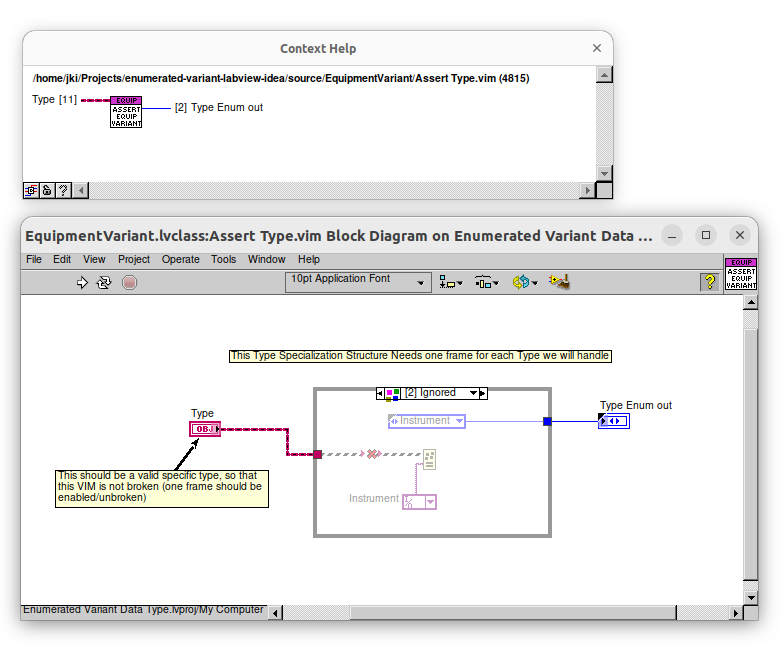
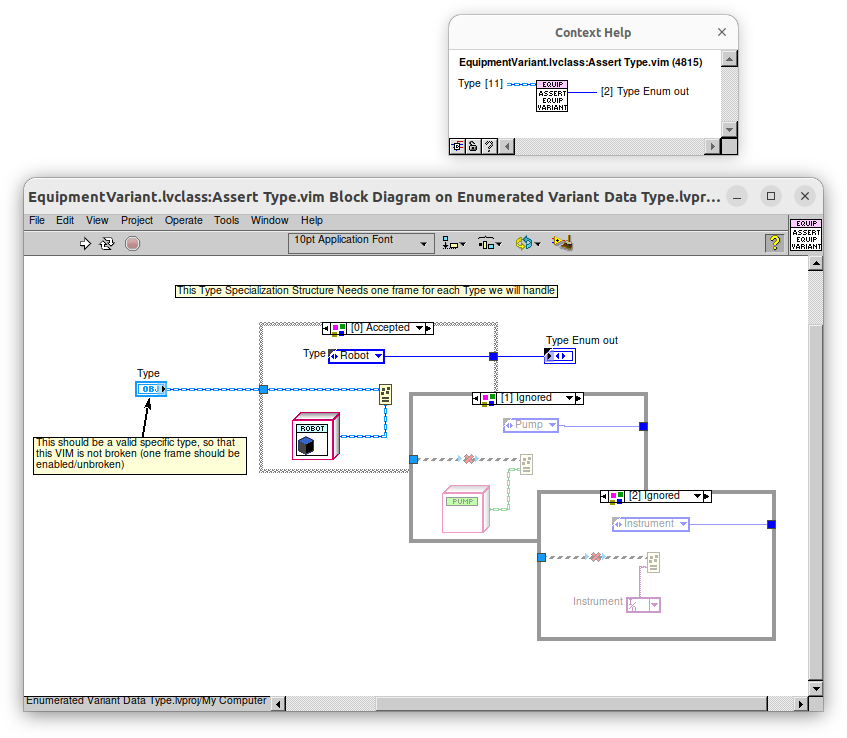
more doc improvements

Changed region(s): [[0.0, 0.031, 0.9821, 0.9907], [0.0614, 0.7121, 0.3683, 0.805], [0.2148, 0.1548, 0.3376, 0.1858]]

diff --git a/README.md b/README.md
@@ -45,68 +45,101 @@ Simply put, the dynamic dispatch approach requires more boilerplate code and is 
 
 As mentioned above, the power of (1) combining an Enum with a set of data types for each value and adding native support for (2) coercion and (3) Case Structure type assertion and data conversion would allow us to create a more robust and type-safe LabVIEW code that is easier to maintain and understand (especially in situations where we do not gain much benefit from the expense of building an maintaining a plug-in architecture).
 
-# Proof of Concept: Combining LabVIEW Enums with Data Types
+# Proof of Concept: Cluster of Enum and Variant
 
-In LabVIEW today, we can get close to such a feature by bundling an enum and a variant into a cluster or (as this example explores more deeply) an "object" (lvclass private data).
+In LabVIEW today, we can get close to such a feature by bundling an enum and each sub-type "variant" into a cluster. Notice how even though these clusters are different types, will all coerce to a cluster of Enum and Variant. 
 
-This example has a class called `EnumeratedVariant.lvclass` which is a base class whose private data contains two Variants: one for the Type Enum and one for the specific Data.
+![Coercion to Cluster of Enum and Variant](docs/coercion_to_cluster_of_enum_and_variant.png)
+
+This allows us to do things like build arrays of these clusters and iterate over them in a For Loop.  We can then unbundle the Enum to get the type and then unbundle the Variant and convert it to the correct type of data at runtime.
+
+![Iterate over Items](docs/example_cluster_for_loop.png)
+
+This is nice, but it could be even better.  Right now ANYTHING can be put into the Variant, and we have to do a runtime check to see if the data is of the correct type.  And, one can accidentally associate the enum value with the wrong data type when an instance is created.
+
+So, what we need is some template code that will allow us to associate a specific data type with each item in an Enum in a way that doesn't require duplicate code and can be checked at compile time rather than runtime.  Let's see how close we can get.
+
+We'll use Malleable VIs and a LabVIEW classes to achieve this.  It won't get us all the way to native support, but it will get us to something that's easy to use and maintain.
+
+# Proof of Concept: Malleable VIs and LabVIEW Classes
+
+## EnumeratedVariant.lvclass (Base Class for Boilerplate Code)
+
+In this approach, we're going to start out by creating a general-purpose base class called `EnumeratedVariant.lvclass`.  We can see its private data contains two Variants: one for the Type Enum and one for the specific Data.
 
 ![Enumerated Variant Private Data](docs/enumerated_variant_private_data.png)
 
-We will also create some Malleable VIs (VIMs) for type assertion and data type conversion (for converting specific variants into our enumerated variant and back) as well as some property accessort functions.
+> Note that we could have created a very specific class with the actual Enum for Equipment types, but we're going to keep it general for now so we can reuse this class for other types of Enumerated Variants.
 
-Ideally, we would be able to avoid any boilerplate in our child classes (specific types of Enumerated Variants) and have all the type checking and data conversion handled by the base class.  However, due to limitations in LabVIEW's class and interface system in conjuction with Malleable VIs (VIMs), we will need to have some boilerplate code in our child classes.
+`EnumeratedVariant.lvclass` has the following features:
 
-## Example: EquipmentVariant.lvclass
+- Property Accessor methods for the Enum and Data Variants
+- A constructor for initializing the Enum and Data Variants.
+- Malleable VIs for converting to the specific Type Enum and Specific Data.
 
-Let's look at an example called `EquipmentVariant.lvclass`, which inherits from `EnumeratedVariant.lvclass`).  It has an Enum that defines the names of types that are considered `EquipmentVariants`. It also has some boilerplate code (that we alluded to), which are parts that could not be put into the base class.
+These were boilerplate code, so we put them in the base class to avoid having to recreate them for each specific type of Enumerated Variant we might create in our application.
 
-### High Level Diagram
+## EquipmentVariant.lvclass (our specific example)
 
-Below is an example of converting a VISA session into a specific Enumerated Variant Data Type called `EquipmentVariant`.  We see that there is also code converting directly to Variant and then back to a VISA Reference using `Variant to Data`.
+Now, let's look at `EquipmentVariant.lvclass`.
 
-![Enumerated Variant Data Type](docs/to_and_from_enumerated_variant.png)
+- It inherits from `EnumeratedVariant.lvclass`)
+- It has an Enum type definition that defines the names of types that are considered `EquipmentVariants`.
+- It has ab `Assert Type` Malleable VI that can be used for asserting (at edit time) whether a specific data type is a valid `EquipmentVariant` subtype.
 
-As mentioned earlier, EquipmentVariant.lvclass has an Enum that defines the names of types that are considered EquipmentVariants.  This is used to enforce the types of data that can be considered EquipmentVariants: `Robot`, `Pump`, and `Instrument`.
+![equipment_variant_lvclass](docs/equipment_variant_lvclass.png)
 
-![Equipment Variant Enum](docs/equipment_variant_enum.png)
+We can see that `EquipmentVariant.lvclass` does not have any private data -- it doesn't need it, because the base class will store both Enum and Data values.
 
-Before we dive into the nuts and bolts, let's look at a high level example of how one might use this in an application.
+We can see how these methods are used in the block diagram of this example, showing how we can create an array of different Equipment Variants and iterate over them in a For Loop, handling each type of Equipment Variant in a different frame of the Case Structure.
 
-## Higher-Level Example (Class vs Cluster approach)
+![docs/equipment_variant_for_loop_case_structure.png](docs/equipment_variant_for_loop_case_structure.png)
 
-Here is a high level example block diagram showing how we can use the `EquipmentVariant.lvclass` to handle a few different types.  Note that we also have shown, along-side a class-based approach, how one might simply use clusters to achieve the same thing (but without static type checking) -- hopefully this shows conceptually what is happening under the hood. All the extra work the class-based approach (and VIMs) is doing is to ensure that the data is of the correct type at compile time.
+Unlike our feature proposal where a Case Structure's Case Select terminal/tunnels could automatically coerce to the specific data type inside of the frame for each specific type, we have to do this type conversion manually in the code.
 
-![High Level Example](docs/example_equipment_variant.png)
+### Error Handling and Type Safety
 
-## Enforcing Types with VIMs and Type Assertions
+In our implementation with classes and malleable VIs, we will need tocheck for type errors, since we cannot guarantee the code will convert to the correct, more-specific subtype in the associated Case Structure frame for handling that type.
 
-Behind the scenes `EquipmentVariant.lvclass` has a Malleable VI that asserts the types of data that can be considered EquipmentVariants.  It has a frame for each type we want to include in set of EquipmentVariants. Below we can see this VI and the frame for the `Instrument` type (which is a `VISA Resource`).s
+> Note: if the Case Structure could convert the data automatically (based on wiring the actual Enumerated Variant into the Case Selector terminal), we would have type safety (through edit time static type checking) and avoid that problem altogether. That's part of our feature proposal for native support of this new Enerated Variant type.
 
-![Assert Type](docs/equipment_variant_assert_type_vim.png)
+![docs/equipment_variant_error_handling.png](docs/equipment_variant_error_handling.png)
 
-## Converting from specific types to EquipmentVariant and back
+## Type Checking using Malleable VIs
 
-When we want to convert a `VISA Resource` data type into an `EquipmentVariant` type, we can use the `To Enumerated Variant` VIM.  This VI will check the type of the data and convert it into an EquipmentVariant.  Note that this is asserting the type is an EquipmentVariant by calling Assert Type.  If the type is not an EquipmentVariant, this VI will be broken and will not compile.
+Even though we may still have some runtime errors we need to handle, we can get some static type checking using a Malleable VI that asserts a type is one of the possible types for an `EquipmentVariant`.  We will name this VIM `Assert Type.vim` and is used in both `To Enumerated Variant.vim` and `To Specific Variant.vim`.
 
-![To Enumerated Variant](docs/equipment_variant_to_enumerated_variant.png)
+We can see how this VIM is called in the block diagram of `To Enumerated Variant.vim` and `To Specific Variant.vim` below:
 
-When we want to convert an `EquipmentVariant` back into a VISA Resource, we can use the `To Specific Variant` VIM.
+![Calling Assert Type](docs/equipment_variant_call_assert_type.png)
 
-![To Specific Variant](docs/to_specific_variant.png)
+## Assert Type.vim - Malleable VI that Maps Enum to Data Type
 
-If we look at the block diagram, we will see it is calling the Type Assertion VIM and also calling the base class's `To Specific Variant` VIM.  This is boilerplate code that we need to include in each child class, since there is no way to override a Malleable VI in LabVIEW (which, if such a feature existed, might allow the base class to call our type assertion VI at edit time and avoid the need for this boilerplate).
+Looking under the hood of `EquipmentVariant.lvclass:Assert Type.vim` we see that it has a Type Specialization Structure with a frame that asserts each possible type and outputs the associated Enum value.  **This is the only location in our code that defines this association**, so it is easy to maintain and understand.
 
-![To Specific Variant](docs/equipment_variant_to_specific_variant.png)
+![docs/equipment_variant_assert_type_vim.png](docs/equipment_variant_assert_type_vim.png)
 
-## EnumeratedVariant Base Class
+Let's say that again...
 
-The VIs and Malleable VIs in the base class are used to provide convenience functions for accessing the Variant Data and converting it to specific types using the `Variant to Data`.  Because they are Malleable VIs, the `Type` input will propagate down into the `Variant to Data` function and avoids the child classes needing to call these accessors and data conversion functions.
+**The `Assert Type` VIM is the only location in our code that defines the association between the Enum values and its Data Type variants**.  That makes for highly maintainable code!  We simply call this VI anywhere we need to assert that a data type is a valid `EquipmentVariant` subtype.
 
-### Converting to Specific Data Type
+# Conclusion
 
-![Enumerated Variant Base Class](docs/base_class_to_specific_type_vim.png)
+Hopefully we've shown the usefulness of an Enumerated Variant type in LabVIEW and how we can get close to this feature using Malleable VIs and LabVIEW classes.
 
-### Converting to Specific Enum Type
+First, we looked at a simple feature proposal in LabVIEW that would allow us to associate a specific data type with each item in an Enum and how adding support for data coercion and integration with the Case Structure would be a huge benefit to LabVIEW developers.
 
-![Enumerated Variant Base Class to Type Enum](docs/base_class_to_type_enum.png)
+Next, we looked at how we might achieve this with a cluster of Enum and Variant.
+
+Then, we added some boilerplate code to a base class that would allow us to create a specific type of Enumerated Variant with minimal code duplication.
+
+Finally, we implemented as much static type checking as is possible today using Malleable VIs and Type Specialization Structures.
+
+We hope this example has been helpful and that you can see the benefits of this design pattern and feature proposal.  We'd love to hear your feedback and ideas for how this could be improved or implemented in LabVIEW.
+
+Please be sure to check out the [LabVIEW Idea Exchange Post](https://forums.ni.com/t5/LabVIEW-Idea-Exchange/quot-Enumerated-Variant-quot-Data-Type-like-Rust-and-Zig-have/idi-p/4362485) and give it a star if you think NI should implement it in a future version of LabVIEW!
+
+☟ Click to give it a star ☟
+
+[![image](https://github.com/JKISoftware/enumerated-variant-labview-idea/assets/381432/961a56f8-3be8-41db-ab73-ed1914e622d8)](https://forums.ni.com/t5/LabVIEW-Idea-Exchange/quot-Enumerated-Variant-quot-Data-Type-like-Rust-and-Zig-have/idi-p/4362485)
+
